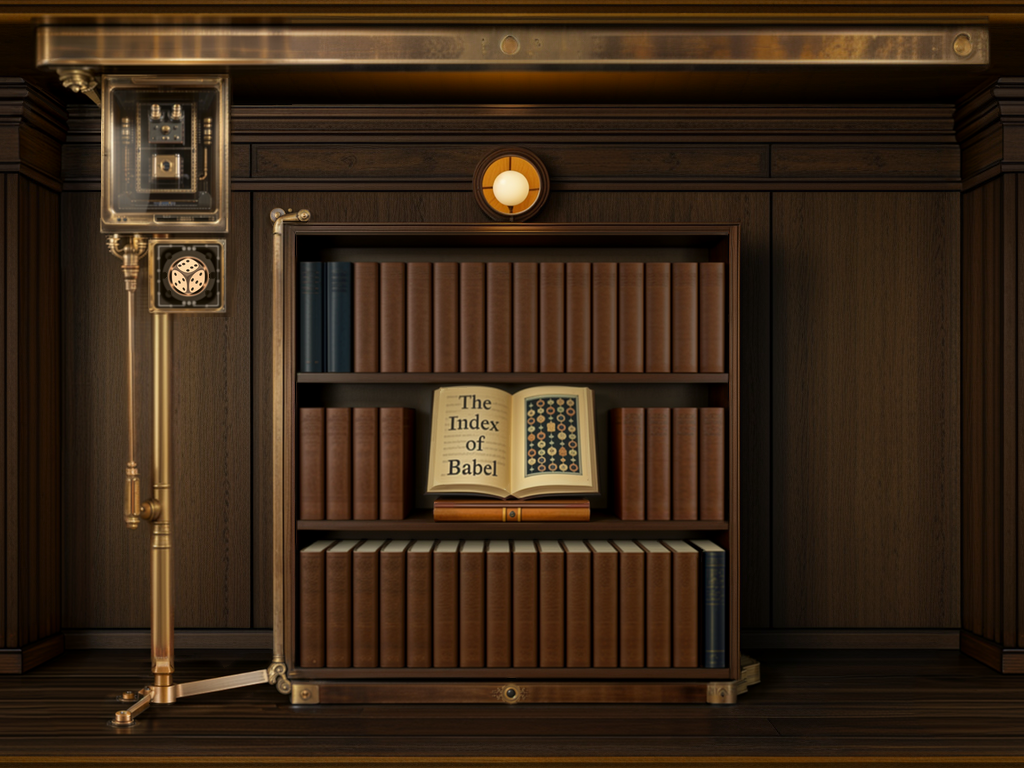
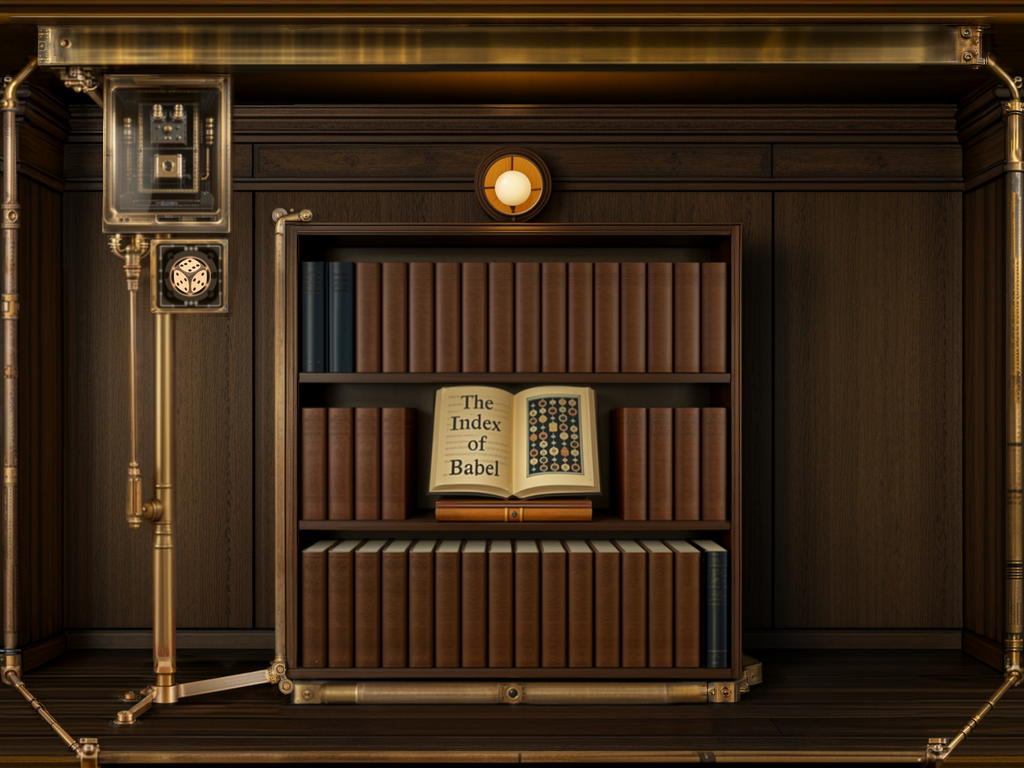
Assorted display and config tweaks
- Remove center tile outline/label, integrate outline into image
  instead
- Tweak zoom defaults and text limits
- Allow clicking fav. button at lower resolutions on mobile

Changed region(s): [[0.0, 0.0, 1.0, 1.0], [0.4688, 0.1875, 0.5625, 0.2812]]

diff --git a/packages/web/src/lib/render.ts b/packages/web/src/lib/render.ts
@@ -214,7 +214,7 @@ export function createRenderer({ cache, pyramid = PYRAMID }: CreateRendererOpts)
           blank++;
         }
 
-        if (chrome) drawChrome(ctx, cell, sx, sy, cellPx, zoom);
+        if (chrome) drawChrome(ctx, cell, sx, sy, zoom);
         // The favorite badge - every real room, never the center (it is the
         // controls, not a room) and never a generic cell (nothing to favorite).
         if (favorites && !cell.center && !cell.generic) {
@@ -397,25 +397,15 @@ export function drawFavoriteSwitch(
   else if (sortMode === 'count') draw(FAV_COUNT_ON);
 }
 
-/** The center-room marker and the rank labels. Cosmetic, and zoom-gated. */
+/** The rank labels. Cosmetic, and zoom-gated. */
 function drawChrome(
   ctx: DrawContext,
   cell: RoomAtResult,
   sx: number,
   sy: number,
-  cellPx: { x: number; y: number },
   zoom: number
 ): void {
-  if (cell.center) {
-    ctx.strokeStyle = 'rgba(200,169,95,0.9)';
-    ctx.lineWidth = 2;
-    ctx.strokeRect(sx + 1, sy + 1, cellPx.x - 2, cellPx.y - 2);
-    if (zoom > 90) {
-      ctx.fillStyle = 'rgba(200,169,95,0.95)';
-      ctx.font = '500 12px ui-sans-serif, system-ui, sans-serif';
-      ctx.fillText('the center', sx + 10, sy + 22);
-    }
-  } else if (!cell.generic && zoom > 120) {
+  if (!cell.center && !cell.generic && zoom > 120) {
     ctx.fillStyle = 'rgba(232,224,210,0.55)';
     ctx.font = '11px ui-monospace, monospace';
     ctx.fillText(`#${cell.rank}`, sx + 8, sy + 18);

diff --git a/packages/config/config.ts b/packages/config/config.ts
@@ -142,7 +142,7 @@ export const DEFAULTS: Defaults = {
      * number to pull the range in; a number outside the hard limits is clamped
      * to them rather than honoured, because config narrows and never widens.
      */
-    minZoom: null,
+    minZoom: 50,
     maxZoom: null,
 
     /**
@@ -158,7 +158,7 @@ export const DEFAULTS: Defaults = {
      * out on a phone and too far in on a wide monitor to state as one value. What
      * belongs in config is what nothing derives; this now derives, so it left.
      */
-    defaultZoom: 220,
+    defaultZoom: 300,
 
     /**
      * How long a camera flight takes - "center", and the fly home after a
@@ -199,7 +199,7 @@ export const DEFAULTS: Defaults = {
      * generic. 0.2 is the concept's "maybe 80% generic" - sparse enough that
      * finding a distinct room feels like finding something.
      */
-    contentRatio: 0.2,
+    contentRatio: 0.25,
 
     /** Scatter seed for slot placement. Changing it reshuffles which cells are slots. */
     slotSeed: 1,
@@ -322,8 +322,8 @@ export const DEFAULTS: Defaults = {
      * tuned further by feel, which is why these are config and not a rendering
      * constant the way `MIN_SPINE_PX` (the zoom-legibility gate) is.
      */
-    spineMinPx: 12,
-    spineMaxPx: 32,
+    spineMinPx: 10,
+    spineMaxPx: 30,
   },
 
   search: {

diff --git a/packages/web/src/lib/slide.ts b/packages/web/src/lib/slide.ts
@@ -484,9 +484,6 @@ export function createSlideRenderer({ cache, pyramid = PYRAMID }: CreateSlideRen
       // The center room, which by construction has not moved.
       const sx = (0 - cam.x) * cellPx.x + w / 2;
       const sy = (0 - cam.y) * cellPx.y + h / 2;
-      ctx.strokeStyle = 'rgba(200,169,95,0.9)';
-      ctx.lineWidth = 2;
-      ctx.strokeRect(sx + 1, sy + 1, cellPx.x - 2, cellPx.y - 2);
       // The favorites-sort switch rides along with the center room across the
       // handoff between renderers - same gate as `render.ts`'s own draw, so it
       // never blinks out for the animation only to reappear once it lands.

diff --git a/packages/web/index.html b/packages/web/index.html
@@ -607,7 +607,7 @@
         the e2e assertion only fails when BOTH are gone. Losing one silently is
         exactly what this is for.
       */
-      .overlay-body .story { display: block; overflow: visible; }
+      .overlay-body .story { display: block; overflow: visible; white-space: pre-line; }
 
       /* The help dialog reuses .overlay/.card-head; only the prose is its own. */
       .help-overlay { width: min(520px, 100%); }

diff --git a/packages/web/src/lib/favoriteBadge.ts b/packages/web/src/lib/favoriteBadge.ts
@@ -51,7 +51,7 @@ export const FAV_ICON_SIZE = { w: 92, h: 198 };
 export const FAV_ICON_HIT_BOUNDS: Rect = { x: 29, y: 128, w: 41, h: 49 };
 
 /** Below this, on each axis, the badge is too small to be a fair click/tap target. */
-export const MIN_FAVORITE_HIT = { desktop: 24, mobile: 48 };
+export const MIN_FAVORITE_HIT = { desktop: 24, mobile: 24 };
 
 /**
  * The badge's full screen rect for a tile whose top left corner is at
